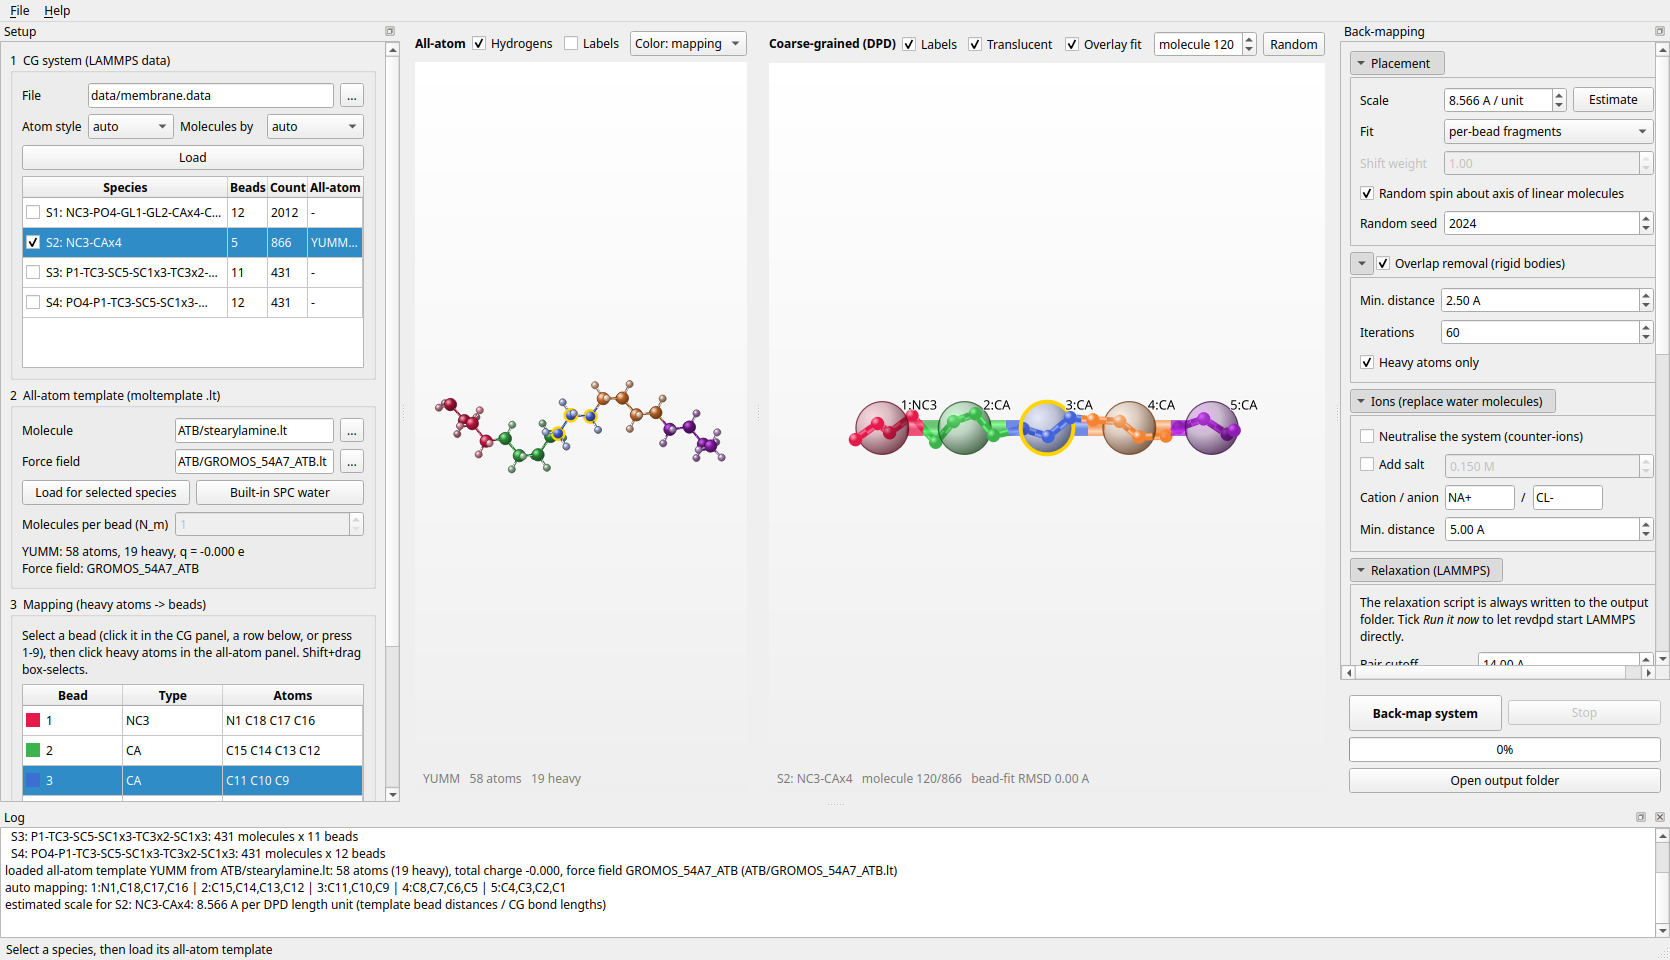
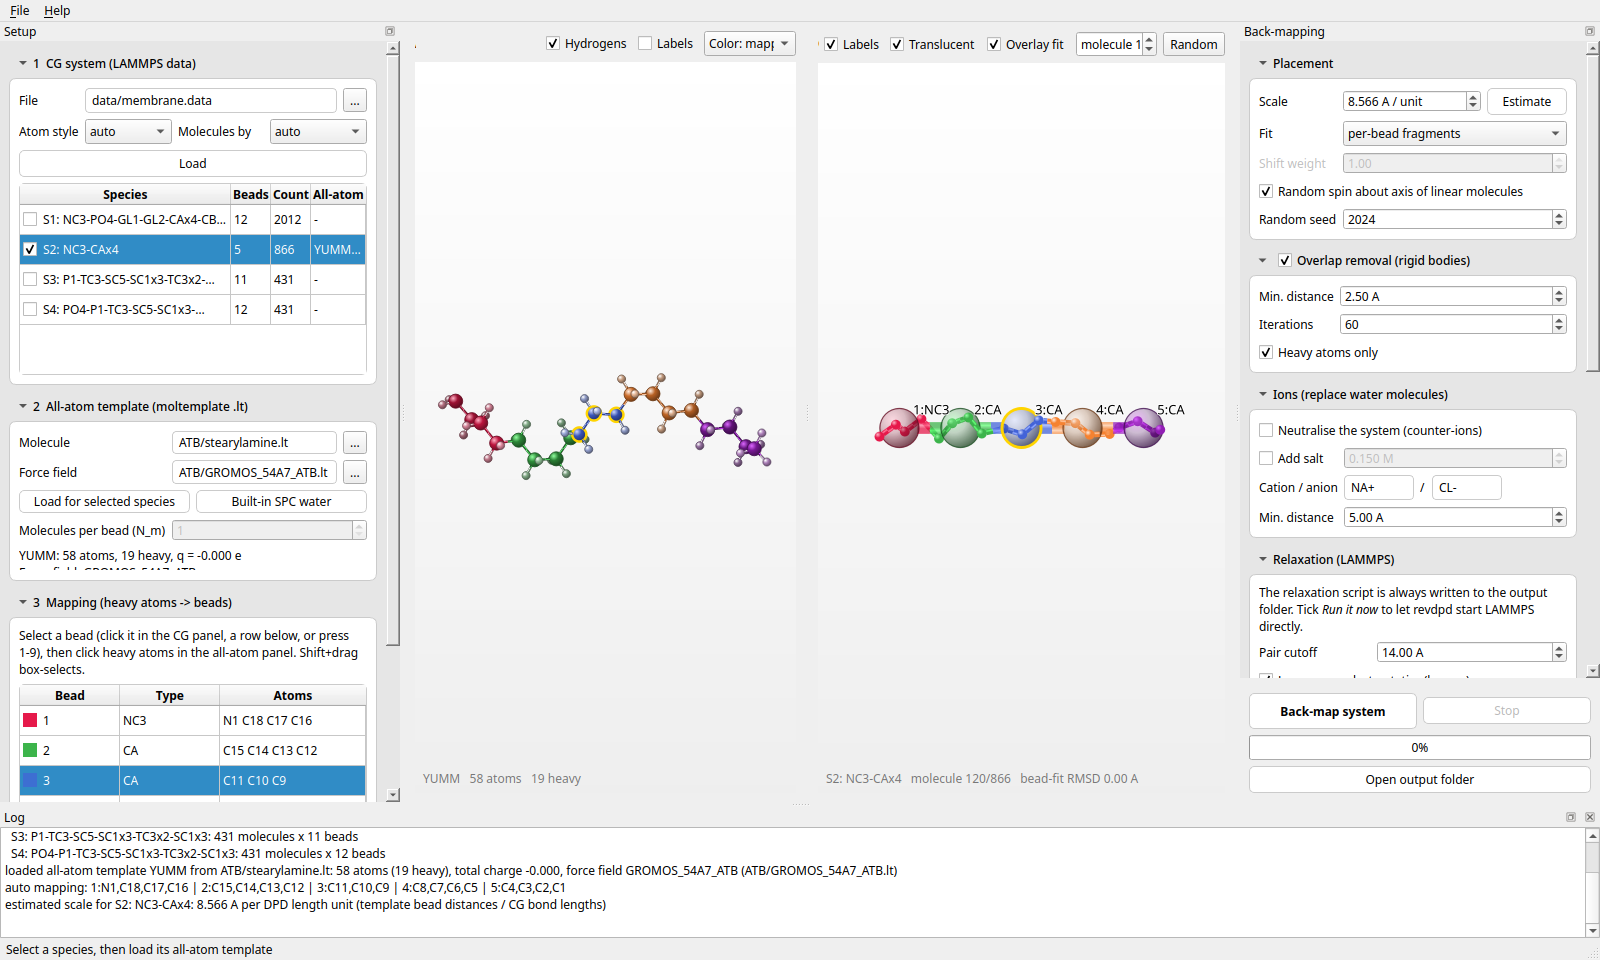
Resizable side panels, card-style sections, LAMMPS path per machine
- panels can be dragged narrower (min 200 px) and wider: the 3D views and their
  toolbars no longer force a large minimum width on the central widget
- all sections (both panels) are collapsible cards with a theme-aware style that
  also works with a dark palette
- a LAMMPS path that does not exist on this machine (remembered setting or
  project file) falls back to auto-detection

Changed region(s): [[0.0, 0.0, 1.0, 1.0], [0.5, 0.7812, 0.6875, 0.8125]]

diff --git a/src/revdpd/gui/main_window.py b/src/revdpd/gui/main_window.py
@@ -10,7 +10,8 @@ from PySide6.QtCore import QObject, QSettings, Qt, QThread, QUrl, Signal, Slot
 from PySide6.QtGui import QAction, QColor, QDesktopServices, QIcon, QKeySequence, QPixmap, QShortcut
 from PySide6.QtWidgets import (
     QAbstractItemView, QApplication, QCheckBox, QComboBox, QDockWidget, QDoubleSpinBox,
-    QFileDialog, QFormLayout, QFrame, QGroupBox, QHBoxLayout, QHeaderView, QLabel, QLineEdit,
+    QFileDialog, QFormLayout, QFrame, QHBoxLayout, QHeaderView, QLabel, QLineEdit,
+    QSizePolicy,
     QMainWindow, QMessageBox, QPlainTextEdit, QProgressBar, QPushButton, QScrollArea,
     QSpinBox, QSplitter, QTableWidget, QTableWidgetItem, QToolButton, QVBoxLayout, QWidget,
 )
@@ -192,6 +193,12 @@ class MainWindow(QMainWindow):
         self.lbl_aa_title = QLabel("<b>All-atom</b>")
         self.lbl_cg_title = QLabel("<b>Coarse-grained (DPD)</b>")
 
+        for lbl in (self.lbl_aa_title, self.lbl_cg_title):
+            lbl.setSizePolicy(QSizePolicy.Ignored, QSizePolicy.Preferred)
+            lbl.setMinimumWidth(1)
+        self.cmb_color.setSizeAdjustPolicy(QComboBox.AdjustToMinimumContentsLengthWithIcon)
+        self.cmb_color.setMinimumContentsLength(6)
+        self.spn_instance.setMinimumWidth(80)
         aa_panel = QWidget()
         la = QVBoxLayout(aa_panel)
         la.addWidget(_hline(self.lbl_aa_title, 1, self.chk_h, self.chk_aa_labels, self.cmb_color))
@@ -211,8 +218,8 @@ class MainWindow(QMainWindow):
         left = QWidget()
         L = QVBoxLayout(left)
 
-        g1 = QGroupBox("1  CG system (LAMMPS data)")
-        f1 = QFormLayout(g1)
+        g1 = self._section("1  CG system (LAMMPS data)")
+        f1 = QFormLayout(g1.content)
         self.ed_cg = QLineEdit()
         b = QToolButton()
         b.setText("...")
@@ -240,8 +247,8 @@ class MainWindow(QMainWindow):
         f1.addRow(self.tbl_species)
         L.addWidget(g1)
 
-        g2 = QGroupBox("2  All-atom template (moltemplate .lt)")
-        f2 = QFormLayout(g2)
+        g2 = self._section("2  All-atom template (moltemplate .lt)")
+        f2 = QFormLayout(g2.content)
         self.ed_aa = QLineEdit()
         b = QToolButton()
         b.setText("...")
@@ -271,8 +278,8 @@ class MainWindow(QMainWindow):
         f2.addRow(self.lbl_aa_info)
         L.addWidget(g2)
 
-        g3 = QGroupBox("3  Mapping (heavy atoms -> beads)")
-        v3 = QVBoxLayout(g3)
+        g3 = self._section("3  Mapping (heavy atoms -> beads)")
+        v3 = QVBoxLayout(g3.content)
         hint = QLabel("Select a bead (click it in the CG panel, a row below, or press 1-9), then "
                       "click heavy atoms in the all-atom panel. Shift+drag box-selects.")
         hint.setWordWrap(True)
@@ -310,13 +317,16 @@ class MainWindow(QMainWindow):
 
         sa = QScrollArea()
         sa.setWidgetResizable(True)
+        sa.setHorizontalScrollBarPolicy(Qt.ScrollBarAsNeeded)
+        sa.setMinimumWidth(180)
         sa.setWidget(left)
         dl = QDockWidget("Setup", self)
         dl.setObjectName("setup")
         dl.setWidget(sa)
         dl.setFeatures(QDockWidget.DockWidgetMovable | QDockWidget.DockWidgetFloatable)
         self.addDockWidget(Qt.LeftDockWidgetArea, dl)
-        dl.setMinimumWidth(400)
+        dl.setMinimumWidth(200)
+        self.resizeDocks([dl], [400], Qt.Horizontal)
 
         # ---------- right dock: back-mapping
         right = QWidget()
@@ -474,7 +484,13 @@ class MainWindow(QMainWindow):
         self.g_min = QCheckBox("Run it now with LAMMPS")
         self.g_min.setToolTip("Start LAMMPS on the written script as soon as the structure is ready")
         f7.addRow(self.g_min)
-        self.ed_lmp = QLineEdit(self.settings.value("lammps_exe", "") or (find_lammps() or ""))
+        saved_exe = self.settings.value("lammps_exe", "")
+        if saved_exe and not Path(saved_exe).exists():
+            saved_exe = ""                      # remembered from another machine
+        self.ed_lmp = QLineEdit(saved_exe or (find_lammps() or ""))
+        self.ed_lmp.setPlaceholderText("not found - select the LAMMPS executable")
+        self.ed_lmp.setToolTip("Detected automatically from PATH ($LAMMPS_EXE, lmp, lmp_serial, "
+                               "lmp_mpi ...) on this machine")
         b = QToolButton()
         b.setText("...")
         b.clicked.connect(self.browse_lmp)
@@ -528,6 +544,8 @@ class MainWindow(QMainWindow):
         R.addStretch(1)
         sr = QScrollArea()
         sr.setWidgetResizable(True)
+        sr.setHorizontalScrollBarPolicy(Qt.ScrollBarAsNeeded)
+        sr.setMinimumWidth(180)
         sr.setWidget(right)
         holder = QWidget()
         hv = QVBoxLayout(holder)
@@ -544,7 +562,8 @@ class MainWindow(QMainWindow):
         dr.setWidget(holder)
         dr.setFeatures(QDockWidget.DockWidgetMovable | QDockWidget.DockWidgetFloatable)
         self.addDockWidget(Qt.RightDockWidgetArea, dr)
-        dr.setMinimumWidth(330)
+        dr.setMinimumWidth(200)
+        self.resizeDocks([dr], [360], Qt.Horizontal)
 
         # ---------- bottom dock: log
         self.log_box = QPlainTextEdit()
@@ -582,7 +601,50 @@ class MainWindow(QMainWindow):
         self._nowheel = NoWheelFilter(self)
         block_wheel(dl, self._nowheel)        # setup panel
         block_wheel(dr, self._nowheel)        # back-mapping panel
+        for lbl in list(dl.findChildren(QLabel)) + list(dr.findChildren(QLabel)):
+            if lbl.wordWrap():
+                lbl.setMinimumWidth(1)
+                lbl.setSizePolicy(QSizePolicy.Ignored, QSizePolicy.Preferred)
+        self._apply_panel_style(dl, dr)
         self.statusBar().showMessage("Load a CG LAMMPS data file to start")
+
+    def _apply_panel_style(self, *docks):
+        """A light, theme-aware style for the side panels: cards with rounded corners."""
+        pal = self.palette()
+        win = pal.window().color()
+        base = pal.base().color()
+        dark = win.lightness() < 128
+        card = base.lighter(104) if not dark else base.lighter(118)
+        panel = win.darker(104) if not dark else win.lighter(106)
+        border = win.darker(118) if not dark else win.lighter(130)
+        text = pal.text().color()
+        css = f"""
+        QScrollArea {{ background: {panel.name()}; border: none; }}
+        QScrollArea > QWidget > QWidget {{ background: {panel.name()}; }}
+        QFrame#sectionContent {{
+            background: {card.name()};
+            border: 1px solid {border.name()};
+            border-radius: 7px;
+            margin-bottom: 2px;
+        }}
+        QToolButton#sectionHeader {{
+            border: none; padding: 3px 4px; color: {text.name()};
+            font-weight: 600; text-align: left;
+        }}
+        QToolButton#sectionHeader:hover {{ color: {pal.highlight().color().name()}; }}
+        CollapsibleGroup > QCheckBox {{ font-weight: 600; }}
+        QTableWidget {{ border: 1px solid {border.name()}; border-radius: 5px; }}
+        QLineEdit {{
+            border: 1px solid {border.name()}; border-radius: 4px; padding: 2px 4px;
+            background: {base.name()};
+        }}
+        QPushButton {{ border: 1px solid {border.name()}; border-radius: 5px; padding: 4px 10px;
+                       background: {card.name()}; }}
+        QPushButton:hover {{ border-color: {pal.highlight().color().name()}; }}
+        QPushButton:disabled {{ color: {pal.mid().color().name()}; }}
+        """
+        for d in docks:
+            d.setStyleSheet(css)
 
     def _build_menu(self):
         m = self.menuBar().addMenu("&File")
@@ -1381,8 +1443,14 @@ class MainWindow(QMainWindow):
         self.spn_temp.setValue(o.temperature)
         self.chk_release.setChecked(o.release)
         self.g_min.setChecked(p.minimize.enabled)
-        if p.minimize.lammps_exe:
-            self.ed_lmp.setText(p.minimize.lammps_exe)
+        exe = p.minimize.lammps_exe
+        if exe and not Path(exe).exists():
+            found = find_lammps() or ""
+            self.log(f"LAMMPS executable from the project does not exist here ({exe}); "
+                     + (f"using {found}" if found else "select it in the Relaxation section"))
+            exe = found
+        if exe:
+            self.ed_lmp.setText(exe)
         self.ed_prefix.setText(p.minimize.prefix or (f"mpirun -np {p.minimize.mpi}" if p.minimize.mpi > 1 else ""))
         self.ed_extra.setText(p.minimize.extra_args)
         self.chk_neutral.setChecked(p.ions.neutralize)

diff --git a/src/revdpd/gui/widgets.py b/src/revdpd/gui/widgets.py
@@ -38,6 +38,7 @@ class CollapsibleGroup(QWidget):
         super().__init__(parent)
         self.title = title
         self.arrow = QToolButton()
+        self.arrow.setObjectName("sectionHeader")
         self.arrow.setAutoRaise(True)
         self.arrow.setCheckable(True)
         self.arrow.setChecked(not collapsed)
@@ -57,6 +58,7 @@ class CollapsibleGroup(QWidget):
             self.arrow.setToolButtonStyle(Qt.ToolButtonTextBesideIcon)
         head.addStretch(1)
         self.content = QFrame()
+        self.content.setObjectName("sectionContent")
         self.content.setFrameShape(QFrame.StyledPanel)
         self.content.setSizePolicy(QSizePolicy.Preferred, QSizePolicy.Maximum)
         lay = QVBoxLayout(self)

diff --git a/src/revdpd/gui/mol_view.py b/src/revdpd/gui/mol_view.py
@@ -26,7 +26,7 @@ class MoleculeView(QWidget):
 
     def __init__(self, parent=None):
         super().__init__(parent)
-        self.setMinimumSize(280, 240)
+        self.setMinimumSize(150, 140)
         self.setMouseTracking(True)
         self.setFocusPolicy(Qt.StrongFocus)
         self.pos = np.zeros((0, 3))
